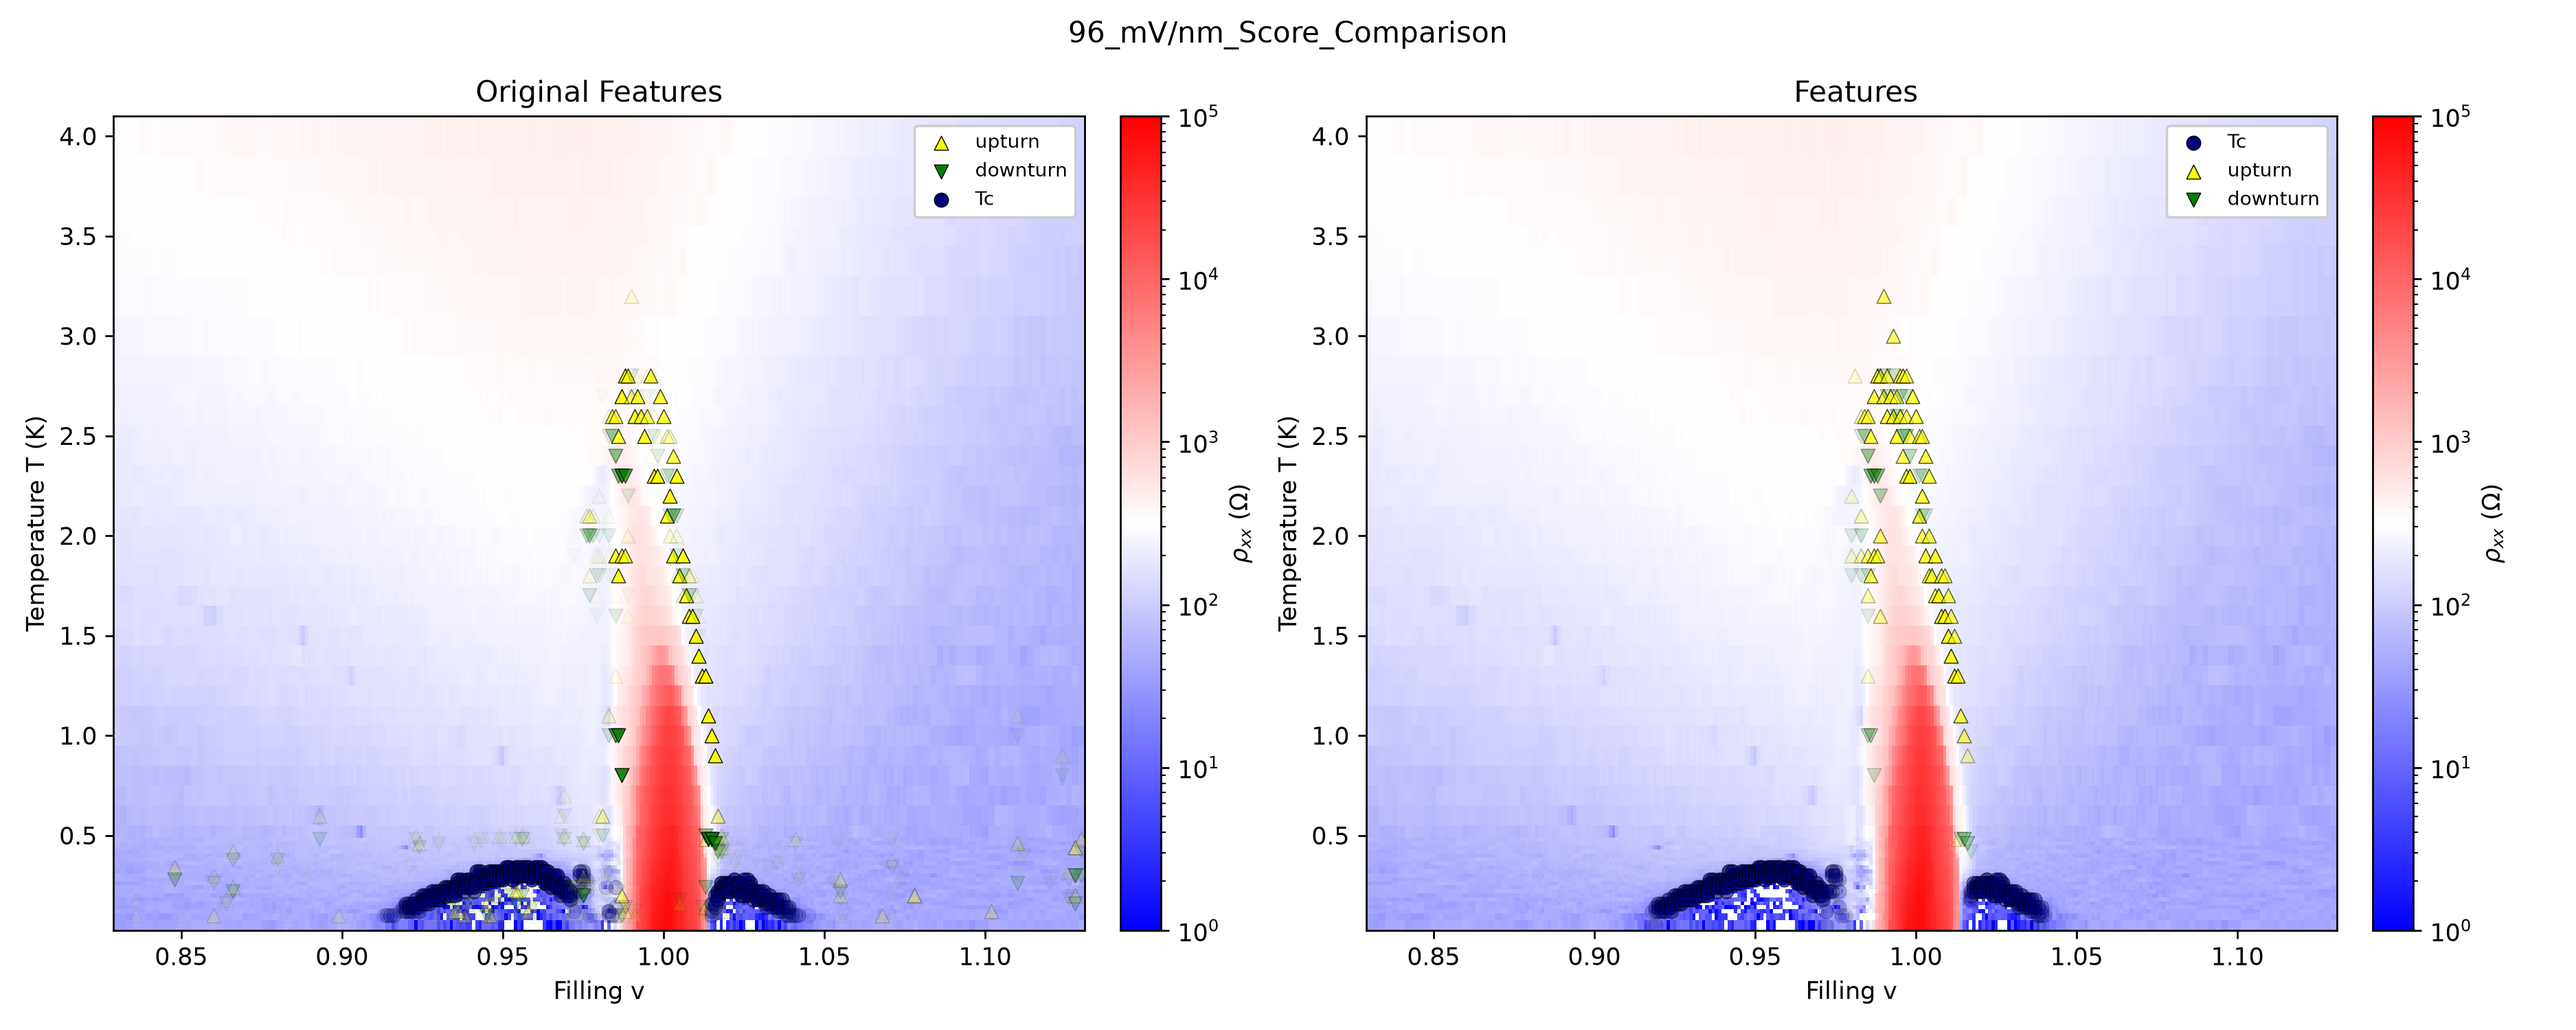
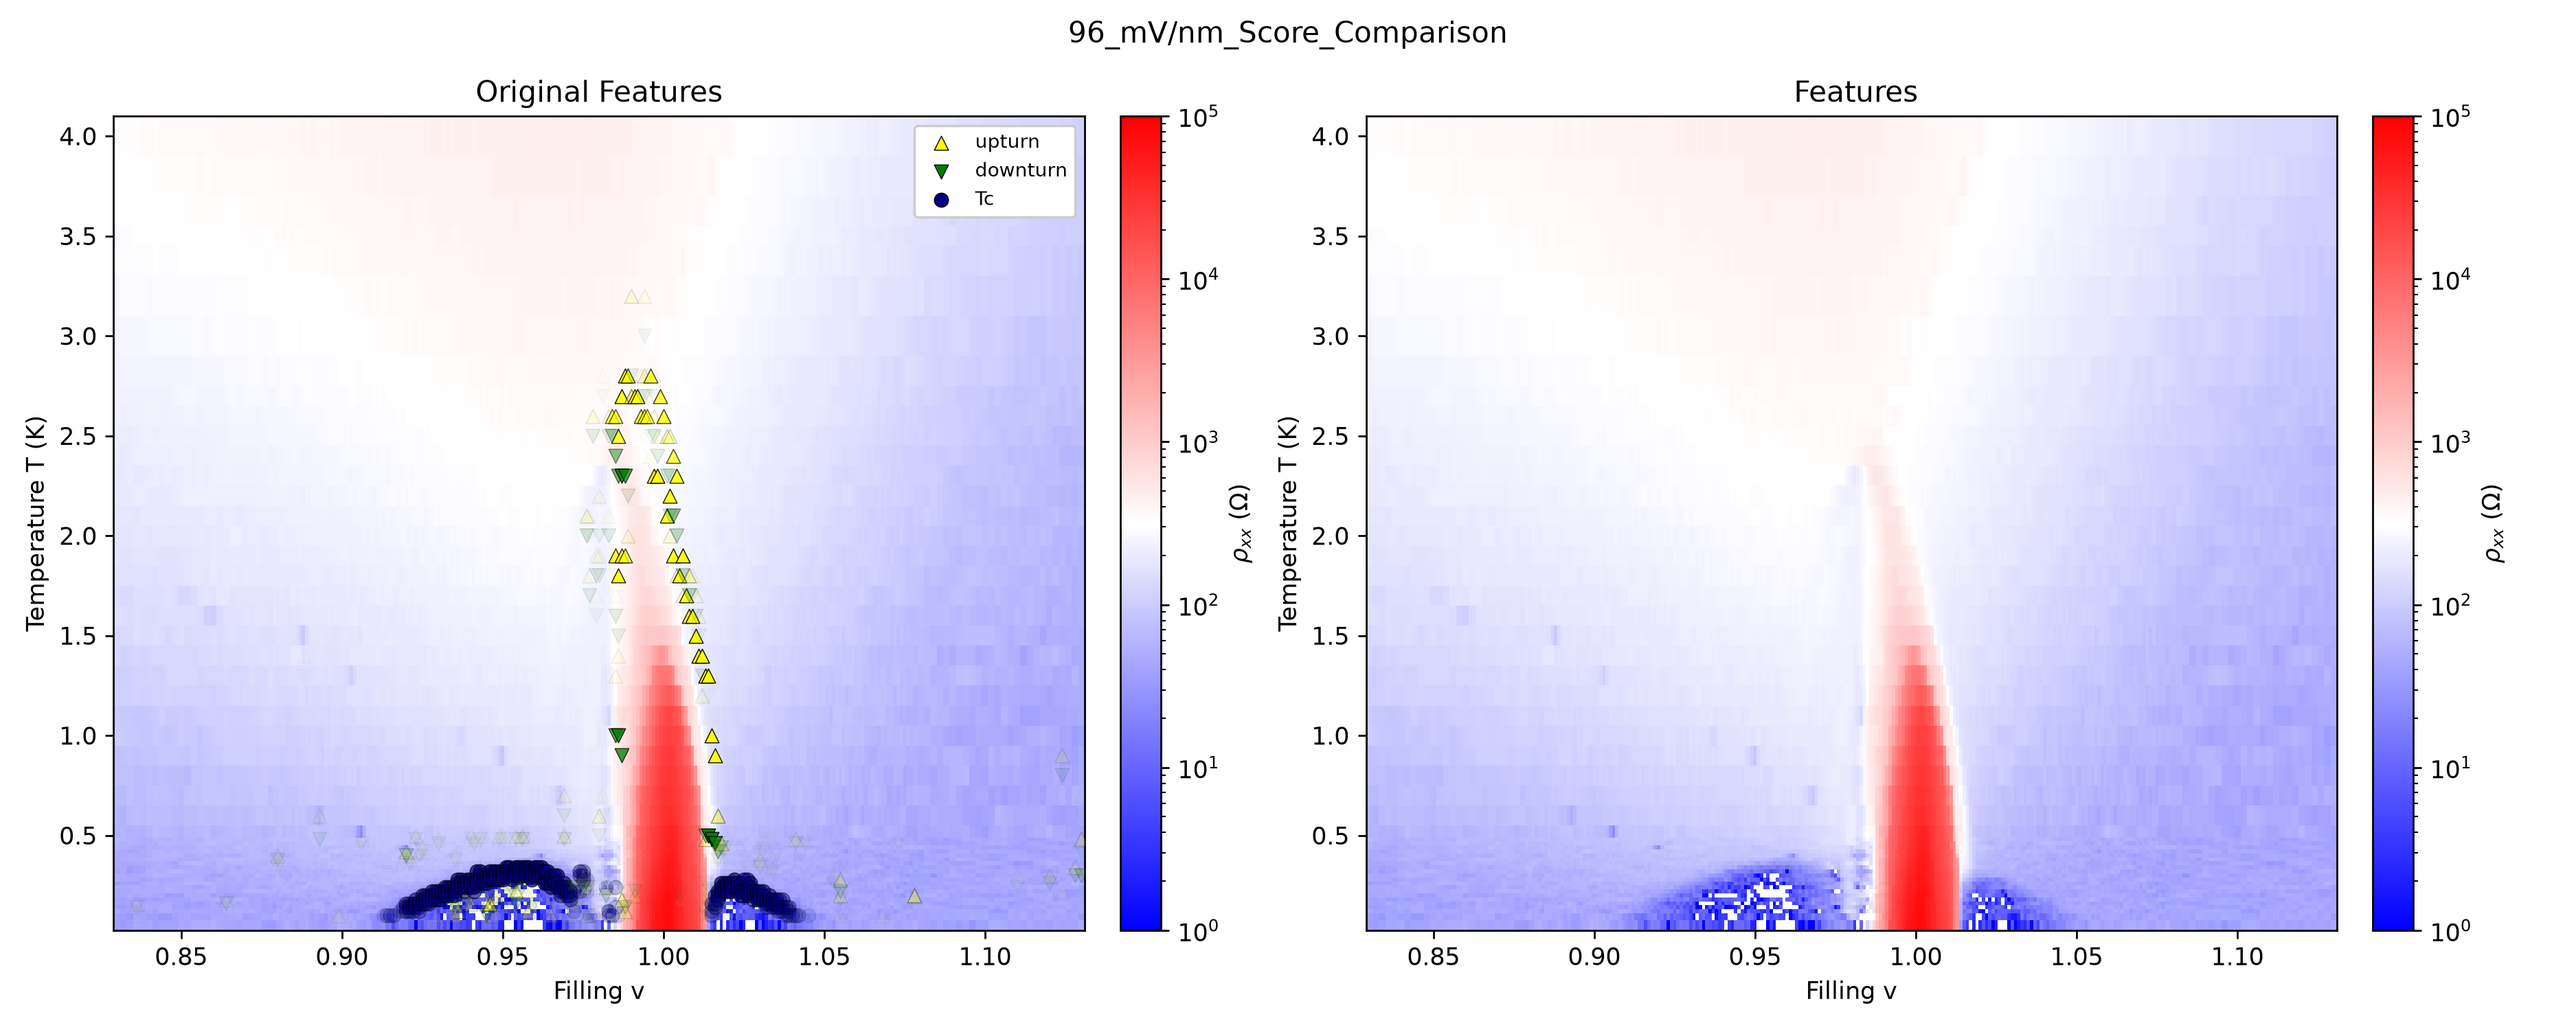
finally fixed issue with figures: used rho_hampel data (messed up sigma estimate and scaling)

diff --git a/scripts/generate_figures.py b/scripts/generate_figures.py
@@ -52,7 +52,7 @@ for field in SELECT_FIELDS:
         # Smoothing
         rho = linecut.get("rho")
         rho_hampel = hampel(rho).filtered_data
-        rho_smoothed = adaptive_multiscale_smooth(T, rho_hampel, z_threshold=3)
+        rho_smoothed = adaptive_multiscale_smooth(T, rho, z_threshold=3)
         linecut.update({"rho_smoothed": rho_smoothed})
 
         # Noise estimates
@@ -68,8 +68,8 @@ for field in SELECT_FIELDS:
 
     # ----- New Scoring Updates -----
 
-    extrema = update_extrema(T, linecuts)
-    datasets[-1]["extrema"] = extrema
+    # extrema = update_extrema(T, linecuts)
+    # datasets[-1]["extrema"] = extrema
 
     # # getting fit range
     # for linecut in linecuts:
@@ -99,7 +99,8 @@ def draw_linecuts():
 
                 fig, axes = generate_layout(2, title=f"{param_string}")
                 plot_line_general(axes[0], dataset["T"], linecut["rho"], title="Raw Data", **linecut_axis_kwargs)
-                plot_line_general(axes[1], dataset["T"], linecut["rho_smoothed"], error=linecut["local_noise"], title="Smoothed Data", **linecut_axis_kwargs)
+                plot_line_general(axes[1], dataset["T"], linecut["rho_smoothed"], error=linecut["local_noise"], 
+                                  title="Smoothed Data", **linecut_axis_kwargs)
 
                 overlay_features(axes[1], dataset["T"], linecut, drawn_types=["upturn", "downturn"])
 
@@ -124,7 +125,7 @@ def draw_heatmaps():
         overlay_features_heatmap(axes[0], dataset["linecuts"], score_name="confidence")
 
         draw_heatmap(fig, axes[1], dataset["nu"], dataset["T"], dataset["rho"], title=" Features")
-        overlay_features_heatmap(axes[1], dataset["linecuts"], feature_name="features_new", score_name="score_15")
+        # overlay_features_heatmap(axes[1], dataset["linecuts"], feature_name="features_new", score_name="score_15")
 
         path = OUT / Path("heatmaps_comparison")
         path.mkdir(exist_ok=True, parents=True)
@@ -132,3 +133,4 @@ def draw_heatmaps():
 
 if __name__ == "__main__":
     draw_heatmaps()
+    # draw_linecuts()
